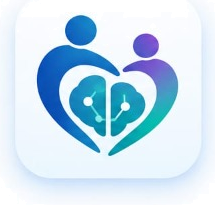
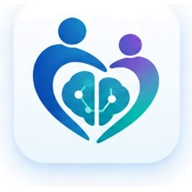
feat: add core memory bond UI components including onboarding, login, and settings views

diff --git a/src/components/memory-bond/AppLoadingScreen.tsx b/src/components/memory-bond/AppLoadingScreen.tsx
@@ -1,6 +1,7 @@
 import React, { useState, useEffect } from "react";
-import { Heart, RotateCcw, ArrowRight, AlertCircle, Loader2 } from "lucide-react";
+import { RotateCcw, ArrowRight, AlertCircle, Loader2 } from "lucide-react";
 import { Button } from "@/components/ui/button";
+import { MemoryBondLogo } from "./MemoryBondLogo";
 
 interface AppLoadingScreenProps {
   error?: string | null;
@@ -34,22 +35,19 @@ export function AppLoadingScreen({ error, onRetry, onSkip }: AppLoadingScreenPro
       className="min-h-screen bg-ambient flex flex-col items-center justify-center p-4 sm:p-6 select-none animate-in fade-in duration-300"
     >
       <div className="w-full max-w-md rounded-3xl bg-white/95 dark:bg-card/95 border border-sky-100 dark:border-border shadow-2xl p-8 sm:p-10 text-center space-y-6 backdrop-blur-md">
-        {/* Heart Logo with Soft Glow */}
-        <div className="relative mx-auto w-20 h-20 flex items-center justify-center">
-          <div className="absolute inset-0 rounded-3xl bg-primary/20 blur-xl animate-pulse" />
-          <div className="relative w-20 h-20 rounded-3xl bg-gradient-to-br from-primary to-blue-600 flex items-center justify-center text-white shadow-lg shadow-primary/25">
-            <Heart className="h-10 w-10 fill-white/25 text-white animate-pulse" />
+        {/* Official Memory Bond Logo with Generous Whitespace & Soft Ambient Glow */}
+        <div className="relative mx-auto flex flex-col items-center justify-center pt-2">
+          <div className="absolute inset-0 max-w-[240px] mx-auto rounded-full bg-primary/10 blur-2xl pointer-events-none" />
+          <div className="relative z-10 flex justify-center">
+            <MemoryBondLogo variant="stacked" size="lg" className="mx-auto" priority={true} />
           </div>
         </div>
 
-        {/* Title & Brand Tagline in Consistent Clean English */}
+        {/* Brand Tagline & Senior Care Badge */}
         <div className="space-y-2">
           <span className="text-[11px] uppercase tracking-widest font-black text-primary bg-primary/10 px-3.5 py-1 rounded-full border border-primary/20">
             AI Senior Companion
           </span>
-          <h1 className="text-2xl sm:text-3xl font-black tracking-tight text-foreground font-display">
-            MEMORY BOND
-          </h1>
           <p className="text-xs sm:text-sm font-semibold text-muted-foreground">
             Technology with a human heart
           </p>

diff --git a/src/components/memory-bond/MemoryBondLogo.tsx b/src/components/memory-bond/MemoryBondLogo.tsx
@@ -32,13 +32,15 @@ export function MemoryBondLogo({
       ? "h-6"
       : size === "sm"
       ? "h-8 sm:h-9"
-      : size === "default" || size === "md"
-      ? "h-9 sm:h-10"
+      : size === "default"
+      ? "h-10 sm:h-11 md:h-12"
+      : size === "md"
+      ? "h-11 sm:h-12 md:h-13"
       : size === "lg"
-      ? "h-12 sm:h-14"
+      ? "h-13 sm:h-16"
       : size === "xl"
-      ? "h-16 sm:h-20"
-      : "h-20 sm:h-24 md:h-28";
+      ? "h-18 sm:h-24"
+      : "h-24 sm:h-32 md:h-36";
 
   // Dimensions for icon-only (aspect ratio ~1:1)
   const iconDimensions =
@@ -46,13 +48,15 @@ export function MemoryBondLogo({
       ? "h-6 w-6"
       : size === "sm"
       ? "h-8 w-8"
-      : size === "default" || size === "md"
-      ? "h-10 w-10"
+      : size === "default"
+      ? "h-10 w-10 sm:h-11 sm:w-11"
+      : size === "md"
+      ? "h-11 w-11 sm:h-12 sm:w-12"
       : size === "lg"
-      ? "h-12 w-12 sm:h-14 sm:w-14"
+      ? "h-14 w-14 sm:h-16 sm:w-16"
       : size === "xl"
-      ? "h-16 w-16 sm:h-20 sm:w-20"
-      : "h-20 w-20 sm:h-24 sm:w-24";
+      ? "h-18 w-18 sm:h-24 sm:w-24"
+      : "h-24 w-24 sm:h-32 sm:w-32";
 
   // Dimensions for stacked logo (aspect ratio ~0.93:1)
   const stackedHeight =
@@ -60,13 +64,15 @@ export function MemoryBondLogo({
       ? "h-12"
       : size === "sm"
       ? "h-16"
-      : size === "default" || size === "md"
+      : size === "default"
       ? "h-20 sm:h-24"
-      : size === "lg"
+      : size === "md"
       ? "h-24 sm:h-28"
+      : size === "lg"
+      ? "h-28 sm:h-32"
       : size === "xl"
-      ? "h-32 sm:h-36"
-      : "h-40 sm:h-48";
+      ? "h-36 sm:h-44"
+      : "h-44 sm:h-52";
 
   // Variant 1: Responsive Logo (Icon on mobile < sm, Full Horizontal on sm+)
   if (variant === "responsive") {

diff --git a/src/components/memory-bond/LoginScreen.tsx b/src/components/memory-bond/LoginScreen.tsx
@@ -1,6 +1,5 @@
 import React, { useState } from "react";
 import {
-  Heart,
   ShieldCheck,
   QrCode,
   KeyRound,
@@ -365,6 +364,9 @@ export function LoginScreen({ store, onAuthenticated }: LoginScreenProps) {
       <div className="min-h-screen bg-ambient flex flex-col items-center justify-center p-4 sm:p-6 animate-in fade-in duration-300">
         <div className="w-full max-w-xl rounded-3xl bg-white border border-sky-100 shadow-xl p-5 sm:p-8 space-y-5">
           <div className="text-center space-y-2">
+            <div className="flex justify-center pb-1">
+              <MemoryBondLogo variant="horizontal" size="sm" />
+            </div>
             <div className="inline-flex items-center gap-2 text-primary bg-primary/10 px-3.5 py-1 rounded-full text-xs font-black uppercase tracking-wider">
               <Languages className="h-3.5 w-3.5" /> {lang === "en" ? "Language" : (t("language") || "Language")}
             </div>
@@ -417,8 +419,8 @@ export function LoginScreen({ store, onAuthenticated }: LoginScreenProps) {
       <div className="min-h-screen bg-ambient flex flex-col items-center justify-center p-4 sm:p-6 animate-in fade-in duration-300">
         <div className="w-full max-w-xl rounded-3xl bg-white border border-sky-100 shadow-xl p-6 sm:p-10 space-y-7">
           <div className="text-center space-y-2">
-            <div className="mx-auto w-12 h-12 rounded-2xl bg-primary/10 text-primary flex items-center justify-center shadow-xs">
-              <Heart className="h-6 w-6" />
+            <div className="flex justify-center pb-1">
+              <MemoryBondLogo variant="icon" size="sm" />
             </div>
             <h2 className="text-2xl sm:text-3xl font-black text-foreground font-display">
               What is your role?

diff --git a/src/components/memory-bond/SafeRouteErrorBoundary.tsx b/src/components/memory-bond/SafeRouteErrorBoundary.tsx
@@ -1,6 +1,7 @@
 import { Component, type ReactNode, type ErrorInfo } from "react";
-import { Heart, RotateCcw } from "lucide-react";
+import { RotateCcw } from "lucide-react";
 import { Button } from "@/components/ui/button";
+import { MemoryBondLogo } from "./MemoryBondLogo";
 
 interface ErrorBoundaryProps {
   children: ReactNode;
@@ -30,10 +31,9 @@ export class SafeRouteErrorBoundary extends Component<ErrorBoundaryProps, ErrorB
       return (
         <div className="min-h-screen flex items-center justify-center bg-background p-6">
           <div className="w-full max-w-md rounded-3xl border-2 border-border bg-card p-8 text-center shadow-lg space-y-4">
-            <div className="w-16 h-16 rounded-2xl bg-primary/10 border border-primary/25 flex items-center justify-center text-primary mx-auto">
-              <Heart className="h-8 w-8 fill-primary/20 text-primary" />
+            <div className="flex justify-center pb-1">
+              <MemoryBondLogo variant="stacked" size="md" />
             </div>
-            <h2 className="text-2xl font-black text-foreground font-display">Welcome to Memory Bond</h2>
             <p className="text-sm text-muted-foreground font-medium">
               A temporary issue occurred while loading this view. Tap below to reload the companion.
             </p>

diff --git a/src/components/memory-bond/SettingsView.tsx b/src/components/memory-bond/SettingsView.tsx
@@ -30,6 +30,7 @@ import { RegionalLanguageSection } from "./RegionalLanguageSection";
 import { speakText, stopSpeaking } from "@/lib/voiceParser";
 import { voiceManager } from "@/lib/voiceProvider";
 import { INDIAN_STATES } from "@/lib/panIndiaCulturalRepository";
+import { MemoryBondLogo } from "./MemoryBondLogo";
 
 export function SettingsView({ store }: { store: MemoryBondStore }) {
   const { lang, setLang, t, speechLocale } = useI18n();
@@ -501,10 +502,10 @@ export function SettingsView({ store }: { store: MemoryBondStore }) {
       {/* 7. Senior Profile Details */}
       <div className="rounded-3xl border-2 border-border bg-card p-6 shadow-xs space-y-4">
         <div className="flex items-center gap-3">
-          <User className="h-6 w-6 text-primary" />
+          <MemoryBondLogo variant="icon" size="sm" />
           <div>
             <h3 className="text-xl font-bold text-foreground">Senior Profile & Member ID</h3>
-            <p className="text-sm text-muted-foreground">Personal details and registration information.</p>
+            <p className="text-sm text-muted-foreground">Personal details and official companion registration.</p>
           </div>
         </div>
 

diff --git a/src/components/memory-bond/SeniorOnboarding.tsx b/src/components/memory-bond/SeniorOnboarding.tsx
@@ -1,6 +1,5 @@
 import { useState } from "react";
 import {
-  Heart,
   User,
   Phone,
   ArrowRight,
@@ -11,6 +10,7 @@ import {
   Smile,
   Check,
 } from "lucide-react";
+import { MemoryBondLogo } from "./MemoryBondLogo";
 import { Button } from "@/components/ui/button";
 import { Input } from "@/components/ui/input";
 import { Label } from "@/components/ui/label";
@@ -102,9 +102,7 @@ export function SeniorOnboarding({
         {/* Progress header */}
         <div className="flex items-center justify-between border-b border-border pb-4">
           <div className="flex items-center gap-2.5">
-            <div className="w-8 h-8 rounded-xl bg-primary/15 text-primary flex items-center justify-center">
-              <Heart className="h-4 w-4 fill-primary/20 text-primary" />
-            </div>
+            <MemoryBondLogo variant="icon" size="xs" />
             <span className="font-extrabold text-foreground text-base sm:text-lg">
               Memory Bond Setup
             </span>

diff --git a/src/components/memory-bond/VoiceAssistantModal.tsx b/src/components/memory-bond/VoiceAssistantModal.tsx
@@ -47,6 +47,7 @@ import type { MemoryBondStore } from "@/lib/memoryBondStore";
 import { useI18n, LANGUAGES, NER_STATES, getLanguagesByState } from "@/lib/i18n";
 
 import { languageEngine, SUPPORTED_LANGUAGES } from "@/lib/languageEngine";
+import { MemoryBondLogo } from "./MemoryBondLogo";
 
 export type AssistantVoiceState =
   | "idle"        // 🎙 Tap to speak
@@ -1023,6 +1024,7 @@ export function VoiceAssistantModal({
         {/* Top Header: STOP Button, Auto-Detected Language Pill, New Topic, Language Selector, Exit Button */}
         <div className="flex items-center justify-between pb-3 border-b border-border shrink-0 gap-2 flex-wrap sm:flex-nowrap">
           <div className="flex items-center gap-2">
+            <MemoryBondLogo variant="icon" size="xs" />
             {/* Immediate Stop Speaking / Cancel Button */}
             <Button
               size="sm"

diff --git a/src/routes/__root.tsx b/src/routes/__root.tsx
@@ -112,9 +112,9 @@ export const Route = createRootRouteWithContext<{ queryClient: QueryClient }>()(
         rel: "stylesheet",
         href: appCss,
       },
-      { rel: "icon", href: "/favicon.ico", type: "image/x-icon" },
-      { rel: "icon", href: "/favicon.png", type: "image/png" },
-      { rel: "apple-touch-icon", href: "/apple-touch-icon.png" },
+      { rel: "icon", href: "/favicon.ico", sizes: "any" },
+      { rel: "icon", href: "/favicon.png", type: "image/png", sizes: "512x512" },
+      { rel: "apple-touch-icon", href: "/apple-touch-icon.png", sizes: "180x180" },
     ],
   }),
   shellComponent: RootShell,

diff --git a/src/components/memory-bond/Header.tsx b/src/components/memory-bond/Header.tsx
@@ -70,7 +70,7 @@ export function Header({
           <button
             type="button"
             onClick={() => onNavigate(store.profile.role === "caregiver" ? "caregiver" : "home")}
-            className="flex items-center cursor-pointer focus-visible:outline-none"
+            className="flex items-center cursor-pointer focus-visible:outline-none focus-visible:ring-2 focus-visible:ring-primary/20 rounded-xl p-0.5 transition-transform active:scale-98"
             aria-label="Memory Bond Home"
           >
             <MemoryBondLogo variant="responsive" size="default" />
